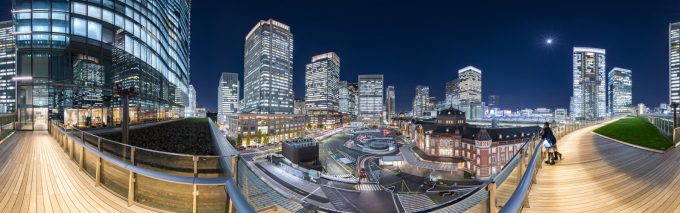
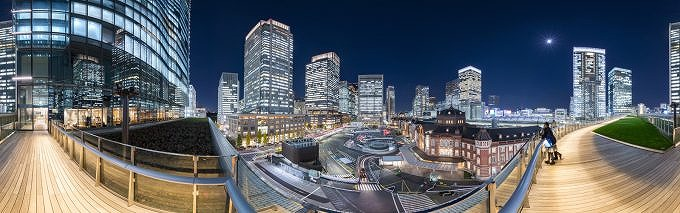
Add files via upload

diff --git a/360/index6.html b/360/index6.html
@@ -1,0 +1,68 @@
+<!DOCTYPE html>
+<html>
+<head>
+  <meta charset="utf-8">
+  <title>図書館バーチャルツアー</title>
+  <script src="https://aframe.io/releases/1.6.0/aframe.min.js"></script>
+</head>
+<body>
+  <a-scene background="color: #000000">
+    <a-assets id="assets"></a-assets>
+
+    <a-entity id="sky-container">
+      <a-sky id="sky" src="room1.jpg"></a-sky>
+    </a-entity>
+
+    <a-camera id="main-camera" look-controls>
+      <a-text id="location-name" value="Entrance" position="0 0.5 -2" align="center" scale="1 1 1" color="white"></a-text>
+      <a-cursor raycaster="objects: .link"></a-cursor>
+    </a-camera>
+
+    <a-entity id="links">
+      <a-sphere class="link" data-src="room2.jpg" data-name="Reading Room" position="5 0 -2" radius="0.5" color="blue"></a-sphere>
+      <a-sphere class="link" data-src="room3.jpg" data-name="Archive" position="-5 0 2" radius="0.5" color="red"></a-sphere>
+      <a-sphere class="link" data-src="room1.jpg" data-name="Entrance" position="0 0 5" radius="0.5" color="green"></a-sphere>
+    </a-entity>
+  </a-scene>
+
+  <script>
+    // 背景切り替え機能
+    document.querySelectorAll('.link').forEach(link => {
+      link.addEventListener('click', function() {
+        const container = document.querySelector('#sky-container');
+        const text = document.querySelector('#location-name');
+        const newSrc = this.getAttribute('data-src');
+        const targetName = this.getAttribute('data-name');
+        
+        const sky = document.querySelector('#sky');
+        sky.setAttribute('animation__fade', {property: 'material.opacity', from: 1, to: 0, dur: 500});
+
+        setTimeout(() => {
+          sky.parentNode.removeChild(sky);
+
+          const newSky = document.createElement('a-sky');
+          newSky.setAttribute('id', 'sky');
+          newSky.setAttribute('src', newSrc + "?t=" + Date.now());
+          newSky.setAttribute('material', 'transparent', 'true');
+          
+          container.appendChild(newSky);
+          text.setAttribute('value', targetName);
+          
+          newSky.setAttribute('animation__fade', {property: 'material.opacity', from: 0, to: 1, dur: 500});
+        }, 500);
+      });
+    });
+
+    // マウスホイールによるズーム機能
+    window.addEventListener('wheel', (event) => {
+      const camera = document.querySelector('#main-camera');
+      const cameraEl = camera.components.camera.camera;
+      
+      // FOV（視野角）を操作してズームを実現
+      // 10度〜120度の間で制限
+      const newFov = Math.max(10, Math.min(120, cameraEl.fov + (event.deltaY * 0.05)));
+      camera.setAttribute('camera', 'fov', newFov);
+    });
+  </script>
+</body>
+</html>